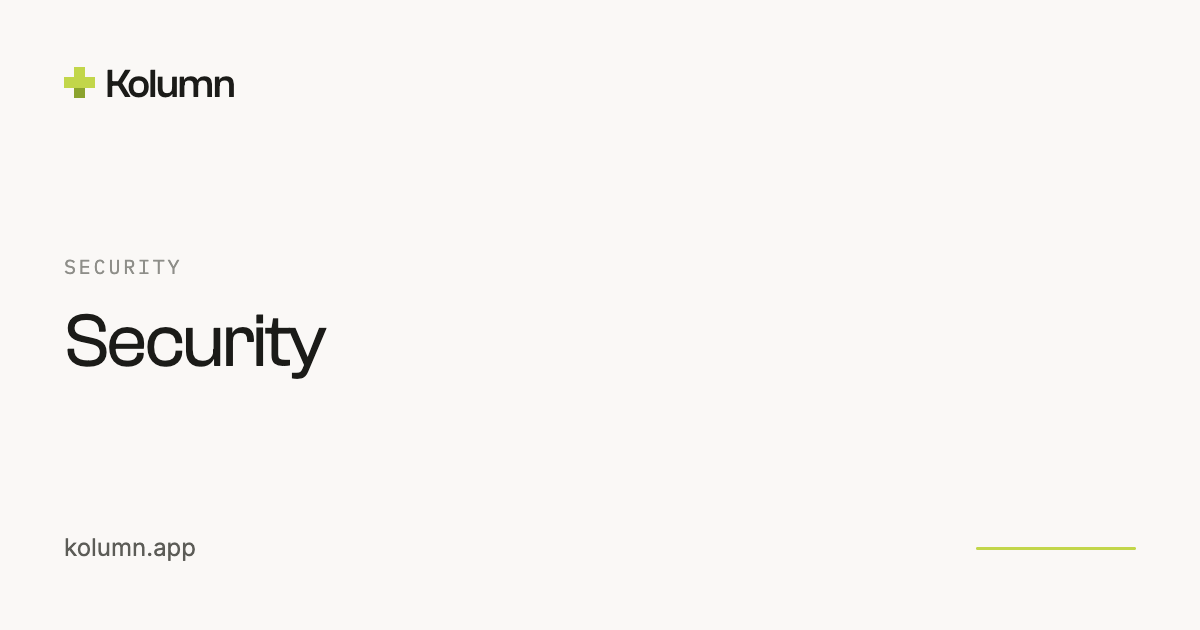
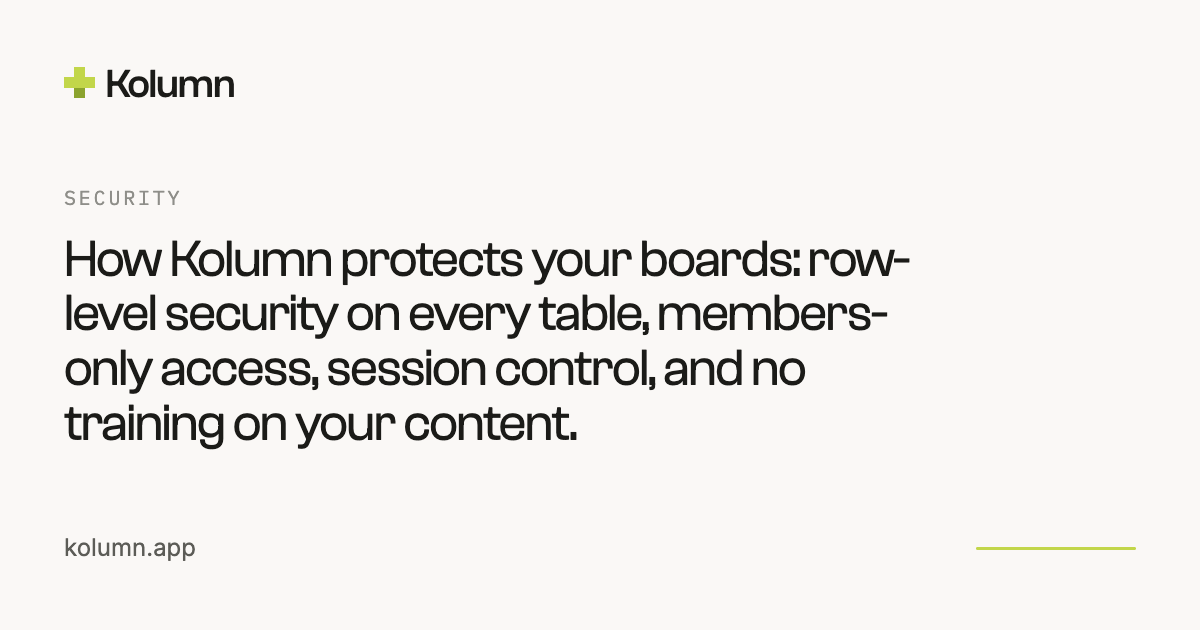
fix(marketing): distinct share cards per page, real headline on index pages
Two flaws in my own generator output. All three product-led pages showed the
identical 'Redo the pricing page' card, so sharing /, /pricing and /features
produced the same picture — each now has its own card. And an index page whose
title equals its section rendered the eyebrow BLOG above the headline 'Blog',
which is correct and useless; those now lead with the page's description.

Claude-Session: https://claude.ai/code/session_01AwkkbVHYAtbyheiEiHdu34

Changed region(s): [[0.0308, 0.3921, 0.7708, 0.7238], [0.0308, 0.3016, 0.1542, 0.3317]]

diff --git a/src/pages/AssetPreviewSandbox.jsx b/src/pages/AssetPreviewSandbox.jsx
@@ -82,16 +82,25 @@ function OgTitle({ eyebrow = 'Pricing', title = 'Free for as long as you like' }
 }
 
 // B — shows the product. A real card on a real board fragment.
-function OgProduct({ title = 'A board that listens', subhead = 'The kanban you talk to.' }) {
+function OgProduct({
+  title = 'A board that listens',
+  subhead = 'The kanban you talk to.',
+  card: cardTitle = 'Redo the pricing page',
+  cardIcon = 'Browser',
+  cardLabel = 'Marketing',
+  cardCheck = '1/3',
+}) {
   const size = fitFontSize(title, [
     [20, 62],
     [32, 54],
     [45, 46],
     [Infinity, 40],
   ])
+  const [doneN, totalN] = cardCheck.split('/').map(Number)
   const card = {
-    id: 'og', title: 'Redo the pricing page', icon: 'Browser',
-    priority: 'high', due_date: null, checklist: [{ done: true }, { done: false }, { done: false }],
+    id: 'og', title: cardTitle, icon: cardIcon,
+    priority: 'high', due_date: null,
+    checklist: Array.from({ length: totalN || 3 }, (_, i) => ({ done: i < (doneN || 0) })),
     completed: false, labels: [], description: '',
   }
   return (
@@ -109,7 +118,7 @@ function OgProduct({ title = 'A board that listens', subhead = 'The kanban you t
       <div className="w-[380px] shrink-0 rounded-2xl border border-[var(--border-default)] bg-[var(--surface-raised)] p-5">
         <p className="mb-3 text-[15px] font-semibold text-[var(--text-secondary)]">This week</p>
         <div className="scale-[1.15] origin-top-left w-[290px]">
-          <CardVisual card={card} interactive={false} labels={[{ text: 'Marketing', color: 'blue' }]} />
+          <CardVisual card={card} interactive={false} labels={[{ text: cardLabel, color: 'blue' }]} />
         </div>
       </div>
     </div>
@@ -202,6 +211,9 @@ export default function AssetPreviewSandbox() {
     if (params.has('eyebrow')) props.eyebrow = params.get('eyebrow')
     if (params.has('title')) props.title = params.get('title')
     if (params.has('subhead')) props.subhead = params.get('subhead')
+    for (const k of ['card', 'cardIcon', 'cardLabel', 'cardCheck']) {
+      if (params.has(k)) props[k] = params.get(k)
+    }
     return (
       <div data-og-card className="landing-font relative overflow-hidden" style={{ width: 1200, height: 630 }}>
         <Layout {...props} />

diff --git a/src/lib/ogMeta.js b/src/lib/ogMeta.js
@@ -56,3 +56,29 @@ export function ogSlugForPath(path) {
 export function ogHeadlineForTitle(title) {
   return title.replace(/ — Kolumn$/, '')
 }
+
+// An index page's title is often just its section name, so layout A would show
+// the eyebrow "BLOG" above a headline reading "Blog" — correct, and useless to
+// anyone deciding whether to click. When the headline adds nothing to the
+// eyebrow, promote the page's description to the headline instead.
+export function ogHeadlineForRoute(route, eyebrow) {
+  const headline = ogHeadlineForTitle(route.title)
+  if (headline.trim().toLowerCase() !== String(eyebrow).trim().toLowerCase()) return headline
+  const sentence = String(route.description || '').split(/(?<=\.)\s/)[0]
+  return sentence || headline
+}
+
+// Layout B shows a real card. Give each page its own so the home page, pricing
+// and features don't share an identical picture when all three are shared.
+// Keyed by route path; anything unlisted falls back to the first entry.
+export const OG_CARDS = {
+  '/': { title: 'Redo the pricing page', icon: 'Browser', label: 'Marketing', checklist: [1, 3] },
+  '/pricing': { title: 'Compare the plans with the team', icon: 'CreditCard', label: 'Admin', checklist: [2, 3] },
+  '/features': { title: 'Draft the launch announcement', icon: 'Megaphone', label: 'Marketing', checklist: [0, 2] },
+  '/features/pill': { title: 'Add three cards from standup', icon: 'Lightning', label: 'Product', checklist: [0, 3] },
+  '/features/chat': { title: 'What is left before Friday?', icon: 'ChatsCircle', label: 'Product', checklist: [1, 2] },
+}
+
+export function ogCardForPath(path) {
+  return OG_CARDS[path] || OG_CARDS['/']
+}
